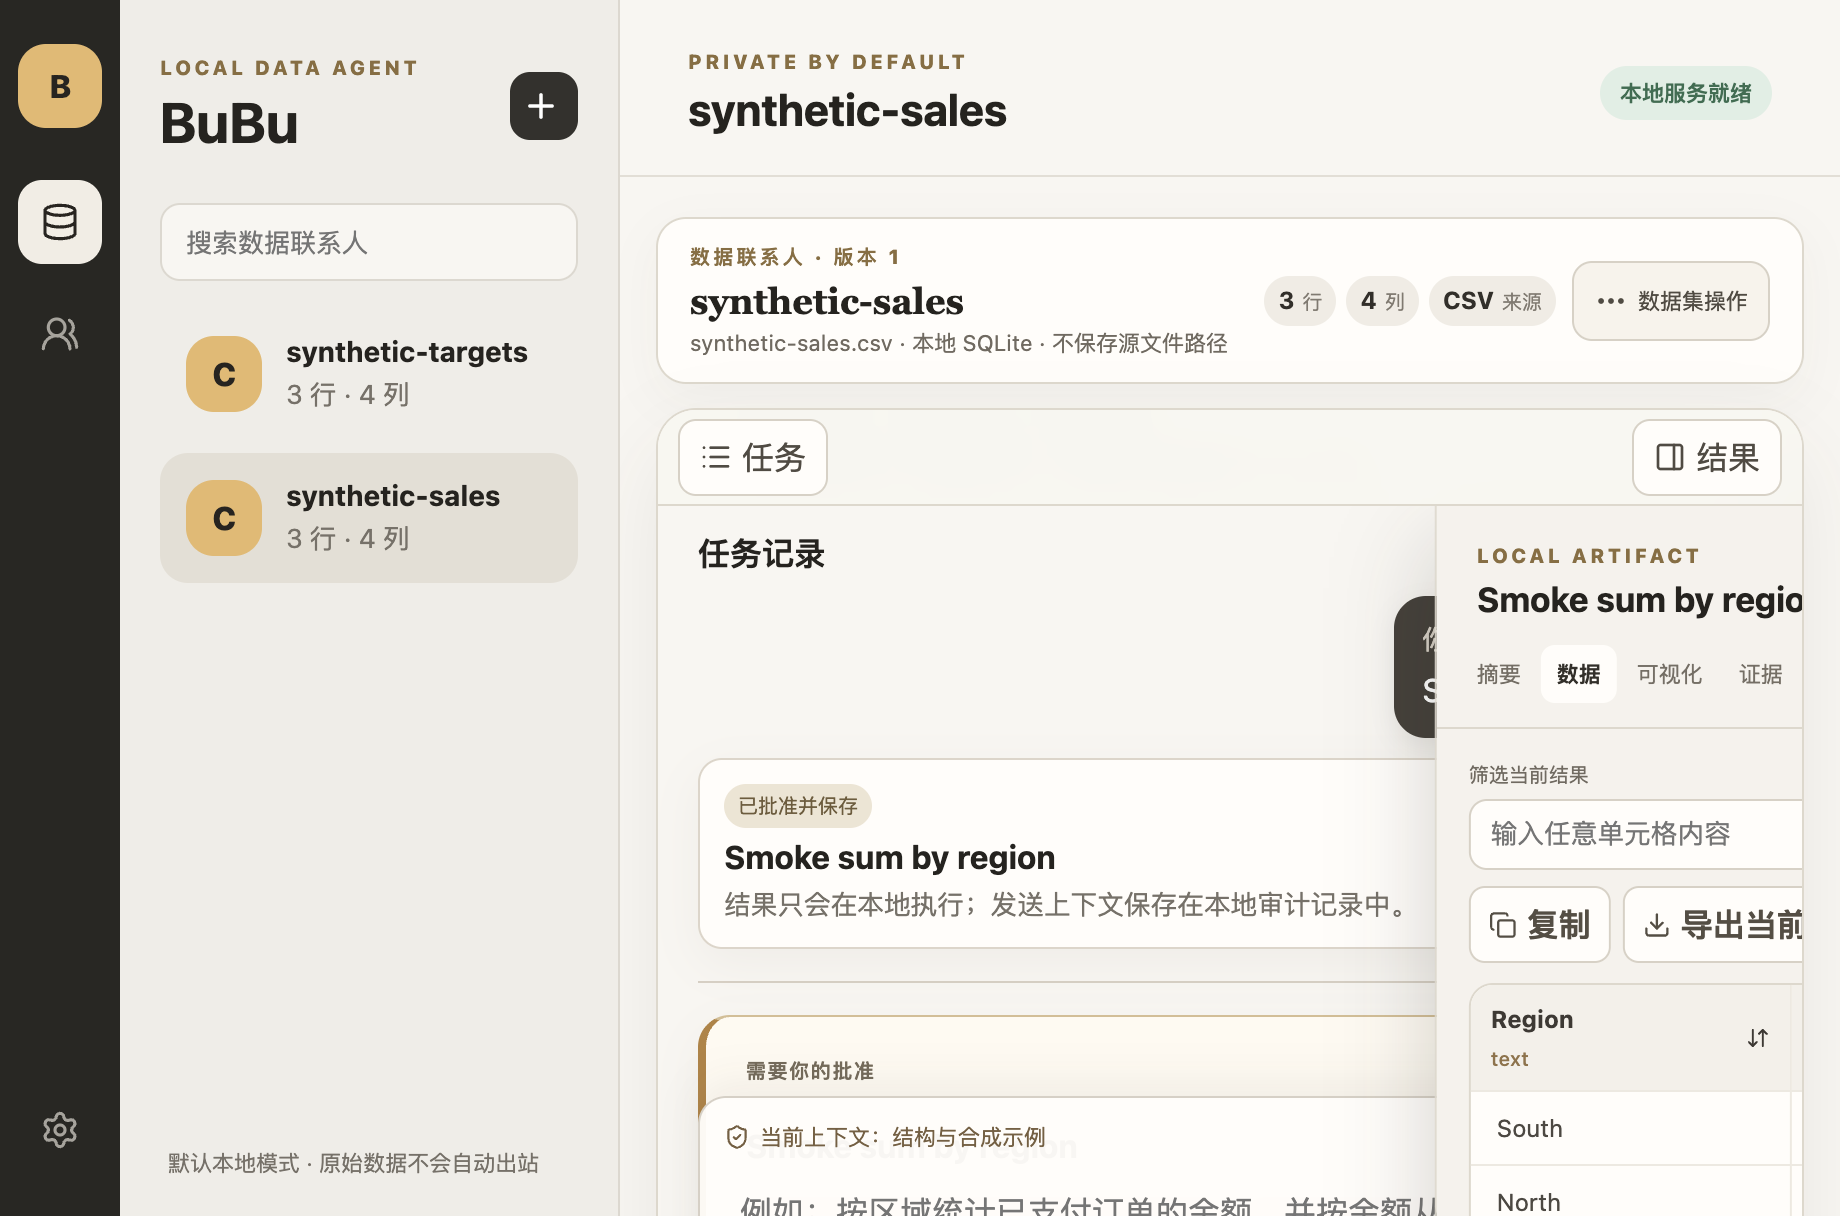
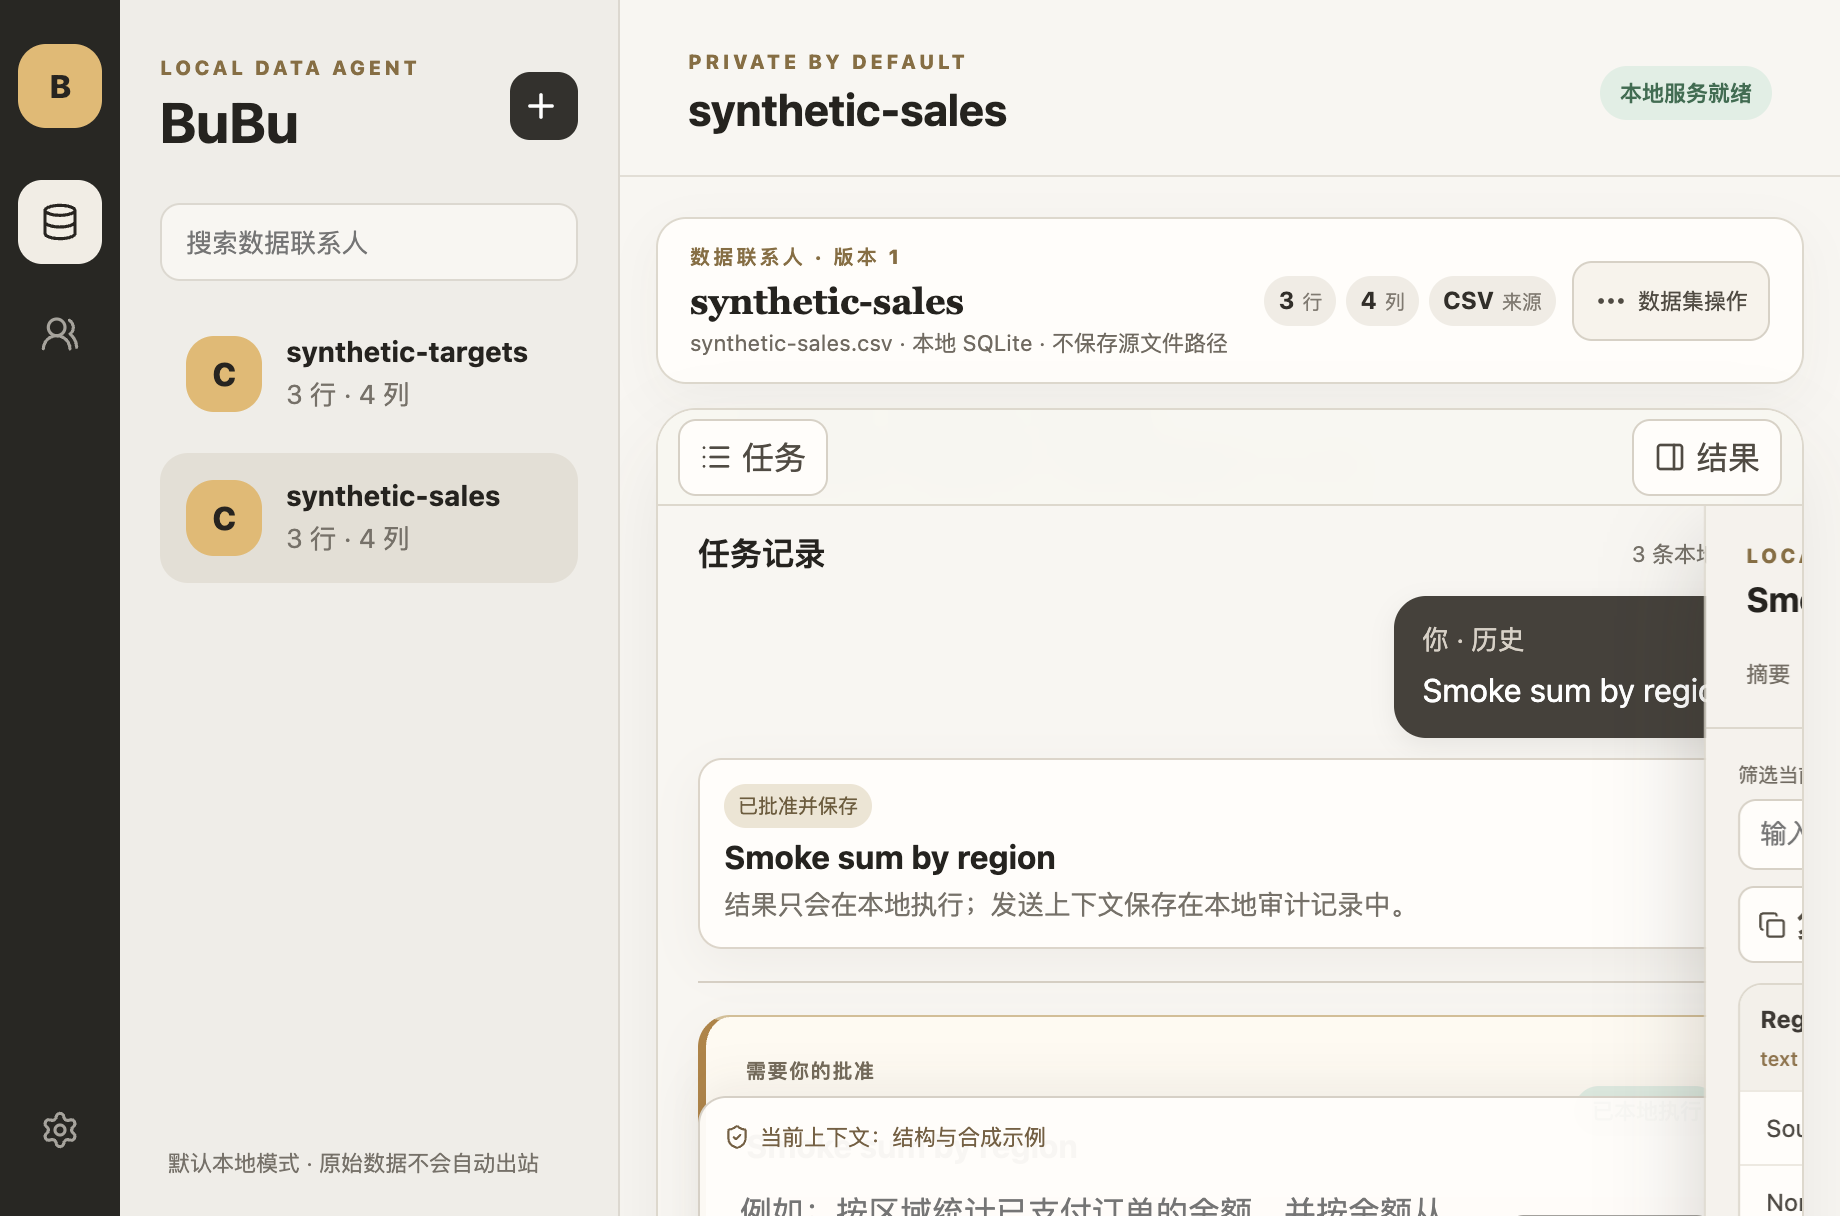
add deterministic visualization reports

diff --git a/packages/contracts/src/visualization.ts b/packages/contracts/src/visualization.ts
@@ -16,6 +16,9 @@ export const visualizationSpecSchema = z.object({
 }).strict();
 
 export type VisualizationSpec = z.infer<typeof visualizationSpecSchema>;
+export type VisualizationRecommendation =
+  | { readonly kind: "chart"; readonly reason: string; readonly spec: VisualizationSpec }
+  | { readonly kind: "table"; readonly reason: string };
 
 interface ResultColumnLike {
   readonly label: string;
@@ -31,18 +34,19 @@ function isNumeric(type: ResultColumnLike["type"]): boolean {
   return type === "integer" || type === "real";
 }
 
-export function deriveVisualizationSpec(result: ResultLike, title: string): VisualizationSpec | undefined {
-  if (result.rows.length === 0 || result.columns.length < 2) return undefined;
+export function recommendVisualization(result: ResultLike, title: string): VisualizationRecommendation {
+  if (result.rows.length === 0) return { kind: "table", reason: "没有结果行，图表不会增加信息。" };
+  if (result.columns.length < 2) return { kind: "table", reason: "至少需要一个分类列和一个数值列才能形成可解释图表。" };
   let valueIndex = -1;
   for (const [index, column] of result.columns.entries()) {
     if (isNumeric(column.type)) valueIndex = index;
   }
-  if (valueIndex < 0) return undefined;
+  if (valueIndex < 0) return { kind: "table", reason: "结果中没有可安全绘制的数值列。" };
   let categoryIndex = result.columns.findIndex(({ type }, index) => index !== valueIndex && !isNumeric(type));
   if (categoryIndex < 0) categoryIndex = result.columns.findIndex((_column, index) => index !== valueIndex);
   const category = result.columns[categoryIndex];
   const value = result.columns[valueIndex];
-  if (!category || !value) return undefined;
+  if (!category || !value) return { kind: "table", reason: "没有找到与数值列配对的分类列。" };
 
   const points = result.rows
     .map((row) => {
@@ -53,16 +57,26 @@ export function deriveVisualizationSpec(result: ResultLike, title: string): Visu
       return { label: rawLabel === null ? "空值" : String(rawLabel), value: number };
     })
     .filter((point): point is { readonly label: string; readonly value: number } => point !== undefined);
-  const visiblePoints = points.slice(0, 20);
-  if (visiblePoints.length === 0) return undefined;
-  return visualizationSpecSchema.parse({
-    kind: category.type === "datetime" ? "line" : "bar",
+  if (points.length === 0) return { kind: "table", reason: "数值列没有可绘制的有限值。" };
+  const labels = new Set(points.map(({ label }) => label));
+  if (labels.size !== points.length) return { kind: "table", reason: "分类值存在重复，直接画图会暗示未经计划批准的聚合。" };
+  if (points.length > 20) return { kind: "table", reason: `共有 ${points.length} 个分类，表格比截断图表更完整。` };
+  const chronological = category.type === "datetime" && points.every(({ label }) => Number.isFinite(Date.parse(label)));
+  const visiblePoints = chronological ? points.toSorted((left, right) => Date.parse(left.label) - Date.parse(right.label)) : points;
+  const spec = visualizationSpecSchema.parse({
+    kind: chronological ? "line" : "bar",
     title: title.trim().slice(0, 500) || "查询结果",
     categoryLabel: category.label,
     valueLabel: value.label,
     points: visiblePoints,
-    omittedPointCount: Math.max(0, points.length - visiblePoints.length),
+    omittedPointCount: 0,
   });
+  return { kind: "chart", reason: chronological ? "时间分类完整可解析，使用按时间排序的趋势图。" : "唯一分类与有限数值一一对应，使用柱状图便于比较。", spec };
+}
+
+export function deriveVisualizationSpec(result: ResultLike, title: string): VisualizationSpec | undefined {
+  const recommendation = recommendVisualization(result, title);
+  return recommendation.kind === "chart" ? recommendation.spec : undefined;
 }
 
 export function parseVisualizationSpec(value: unknown): VisualizationSpec {

diff --git a/apps/desktop/src/main/artifact-api.ts b/apps/desktop/src/main/artifact-api.ts
@@ -30,6 +30,16 @@ export function artifactFileName(title: string): string {
   return `${safe || "bubu-result"}.csv`;
 }
 
+function html(value: unknown): string {
+  return String(value ?? "").replaceAll("&", "&amp;").replaceAll("<", "&lt;").replaceAll(">", "&gt;").replaceAll('"', "&quot;").replaceAll("'", "&#39;");
+}
+
+export function artifactHtmlReport(input: ArtifactTableActionInput): string {
+  const head = input.columns.map((column) => `<th scope="col">${html(column)}</th>`).join("");
+  const body = input.rows.map((row) => `<tr>${row.map((cell) => `<td>${html(cell)}</td>`).join("")}</tr>`).join("");
+  return `<!doctype html><html lang="zh-CN"><head><meta charset="utf-8"><meta name="viewport" content="width=device-width"><meta name="color-scheme" content="light"><title>${html(input.title)}</title><style>body{max-width:1100px;margin:40px auto;padding:0 24px;font:15px/1.6 system-ui;color:#292621;background:#faf8f3}header{margin-bottom:24px}h1{margin:0 0 6px}p{color:#6f685e}.table{overflow:auto;border:1px solid #d8d1c5;border-radius:12px;background:#fff}table{width:100%;border-collapse:collapse}th,td{padding:9px 11px;border-bottom:1px solid #e7e1d8;text-align:left;white-space:nowrap}th{background:#f2eee6}footer{margin-top:18px;font-size:12px;color:#777}</style></head><body><header><h1>${html(input.title)}</h1><p>BuBu 本地轻报告 · ${input.rows.length} 行 · ${input.columns.length} 列</p></header><main class="table"><table><thead><tr>${head}</tr></thead><tbody>${body}</tbody></table></main><footer>此文件由本地 Artifact 当前结果生成，不包含模型凭据、文件路径或未显示的数据行。</footer></body></html>`;
+}
+
 export function registerArtifactApi({ assertTrustedSender }: { readonly assertTrustedSender: (frameUrl: string) => void }): void {
   ipcMain.handle(desktopChannels.copyArtifactTable, (event, value: unknown) => {
     assertTrustedSender(event.senderFrame?.url ?? "");
@@ -43,6 +53,14 @@ export function registerArtifactApi({ assertTrustedSender }: { readonly assertTr
     const selection = await dialog.showSaveDialog({ title: "导出当前结果视图", defaultPath: artifactFileName(input.title), filters: [{ name: "CSV", extensions: ["csv"] }] });
     if (selection.canceled || !selection.filePath) return { status: "cancelled" } as const;
     await writeFile(selection.filePath, `\uFEFF${artifactCsv(input)}`, { encoding: "utf8", mode: 0o600 });
+    return { status: "exported", rowCount: input.rows.length } as const;
+  });
+  ipcMain.handle(desktopChannels.exportArtifactReport, async (event, value: unknown) => {
+    assertTrustedSender(event.senderFrame?.url ?? "");
+    const input = parseArtifactTableActionInput(value);
+    const selection = await dialog.showSaveDialog({ title: "导出本地轻报告", defaultPath: artifactFileName(input.title).replace(/\.csv$/u, ".html"), filters: [{ name: "HTML 报告", extensions: ["html"] }] });
+    if (selection.canceled || !selection.filePath) return { status: "cancelled" } as const;
+    await writeFile(selection.filePath, artifactHtmlReport(input), { encoding: "utf8", mode: 0o600 });
     return { status: "exported", rowCount: input.rows.length } as const;
   });
 }

diff --git a/packages/contracts/src/visualization-recommendation.test.ts b/packages/contracts/src/visualization-recommendation.test.ts
@@ -1,0 +1,16 @@
+import { describe, expect, it } from "vitest";
+import { recommendVisualization } from "./visualization.js";
+
+describe("recommendVisualization", () => {
+  it("uses a chronologically sorted line only for parseable time categories", () => {
+    const result = recommendVisualization({ columns: [{ label: "day", type: "datetime" }, { label: "sales", type: "real" }], rows: [["2026-02-01", 2], ["2026-01-01", 1]] }, "趋势");
+    expect(result.kind).toBe("chart");
+    if (result.kind === "chart") expect(result.spec).toMatchObject({ kind: "line", points: [{ label: "2026-01-01" }, { label: "2026-02-01" }] });
+  });
+
+  it("refuses charts that would hide cardinality or imply new aggregation", () => {
+    const columns = [{ label: "category", type: "text" }, { label: "value", type: "integer" }] as const;
+    expect(recommendVisualization({ columns, rows: [["A", 1], ["A", 2]] }, "重复")).toMatchObject({ kind: "table", reason: expect.stringContaining("未经计划批准") });
+    expect(recommendVisualization({ columns, rows: Array.from({ length: 21 }, (_, index) => [`C${index}`, index]) }, "过多")).toMatchObject({ kind: "table", reason: expect.stringContaining("21 个分类") });
+  });
+});

diff --git a/apps/desktop/src/renderer/ArtifactInspector.tsx b/apps/desktop/src/renderer/ArtifactInspector.tsx
@@ -1,4 +1,4 @@
-import { ArrowDownUp, Bot, Copy, Download, Maximize2, Minimize2, Pin, PinOff, X } from "lucide-react";
+import { ArrowDownUp, Bot, Copy, Download, FileText, Maximize2, Minimize2, Pin, PinOff, X } from "lucide-react";
 import { useEffect, useMemo, useState, type ReactNode } from "react";
 import type { ConversationEntry, ConversationThread, SafeGroupQueryResult, SafeQueryResult } from "../shared/product-api.js";
 import { ResultVisualization } from "./ResultVisualization.js";
@@ -77,6 +77,7 @@ export function ArtifactInspector({ target, threadId, fallback }: { readonly tar
   const [expanded, setExpanded] = useState(false);
   const [automationOpen, setAutomationOpen] = useState(false);
   const [pinned, setPinned] = useState(() => threadId ? readPinnedArtifacts().has(threadId) : false);
+  const [reportNotice, setReportNotice] = useState<string>();
   const thread = useConversationThread(target, threadId);
   const artifacts = useMemo(() => latestArtifacts(thread), [thread]);
   const result = artifacts.result;
@@ -87,6 +88,7 @@ export function ArtifactInspector({ target, threadId, fallback }: { readonly tar
     setAutomationOpen(false);
     setExpanded(false);
     setPinned(threadId ? readPinnedArtifacts().has(threadId) : false);
+    setReportNotice(undefined);
   }, [threadId]);
 
   if (!threadId || !thread || (!result && !plan)) return <>{fallback}</>;
@@ -96,6 +98,15 @@ export function ArtifactInspector({ target, threadId, fallback }: { readonly tar
     localStorage.setItem(pinnedArtifactKey, JSON.stringify([...values]));
     setPinned(values.has(threadId));
   };
+  const exportReport = async () => {
+    if (!result) return;
+    try {
+      const outcome = await window.bubu.artifacts.exportReport({ title: plan?.plan.purpose ?? thread.title, columns: result.columns.map(({ label }) => label), rows: result.rows });
+      setReportNotice(outcome.status === "exported" ? `已导出包含 ${outcome.rowCount} 行的本地轻报告` : "已取消报告导出");
+    } catch (error) {
+      setReportNotice(error instanceof Error ? error.message : "报告导出失败，请重试");
+    }
+  };
   const draft = plan ? ("datasetId" in plan.plan ? { kind: "dataset-query" as const, plan: plan.plan } : { kind: "group-query" as const, groupPlan: plan.plan }) : undefined;
   return <div className={`artifact-shell ${expanded ? "artifact-shell-expanded" : ""}`}>
     <header className="artifact-header"><div><p className="hero-kicker">LOCAL ARTIFACT</p><h3>{plan?.plan.purpose ?? thread.title}</h3></div><div className="artifact-header-actions"><span>仅本地</span><button type="button" onClick={() => setExpanded((value) => !value)} aria-label={expanded ? "收起结果工作区" : "展开结果工作区"}>{expanded ? <Minimize2 size={15} /> : <Maximize2 size={15} />}</button></div></header>
@@ -104,7 +115,7 @@ export function ArtifactInspector({ target, threadId, fallback }: { readonly tar
         {(Object.keys(labels) as InspectorTab[]).map((item) => <button type="button" role="tab" key={item} className={tab === item ? "artifact-tab-active" : ""} aria-selected={tab === item} tabIndex={tab === item ? 0 : -1} onClick={() => setTab(item)} onKeyDown={(event) => { if (event.key !== "ArrowLeft" && event.key !== "ArrowRight") return; const tabs = Array.from(event.currentTarget.parentElement?.querySelectorAll<HTMLButtonElement>('[role="tab"]') ?? []); const index = tabs.indexOf(event.currentTarget); const next = tabs[(index + (event.key === "ArrowRight" ? 1 : -1) + tabs.length) % tabs.length]; next?.focus(); next?.click(); }}>{labels[item]}</button>)}
       </nav>
       <div className="artifact-body" role="tabpanel">
-        {tab === "summary" && <section className="artifact-summary"><div className="artifact-metrics"><span><strong>{result?.rows.length ?? 0}</strong>结果行</span><span><strong>{result?.columns.length ?? 0}</strong>结果列</span><span><strong>{thread.entries.length}</strong>证据事件</span></div><p>{result ? "经过审查的计划已由本地 Go 数据内核执行，原始行没有自动发送给模型。" : "计划已保存，等待你在对话中批准本地执行。"}</p>{result?.truncated && <small>结果已按照计划上限截断。</small>}<button type="button" className="secondary-action artifact-automation-action" onClick={() => { setAutomationOpen(true); setExpanded(true); }}><Bot size={15} />把已审查计划变成自动化</button></section>}
+        {tab === "summary" && <section className="artifact-summary"><div className="artifact-metrics"><span><strong>{result?.rows.length ?? 0}</strong>结果行</span><span><strong>{result?.columns.length ?? 0}</strong>结果列</span><span><strong>{thread.entries.length}</strong>证据事件</span></div><p>{result ? "经过审查的计划已由本地 Go 数据内核执行，原始行没有自动发送给模型。" : "计划已保存，等待你在对话中批准本地执行。"}</p>{result?.truncated && <small>结果已按照计划上限截断。</small>}<div className="artifact-summary-actions"><button type="button" className="secondary-action" disabled={!result} onClick={() => void exportReport()}><FileText size={15} />导出轻报告</button><button type="button" className="secondary-action artifact-automation-action" onClick={() => { setAutomationOpen(true); setExpanded(true); }}><Bot size={15} />把已审查计划变成自动化</button></div>{reportNotice && <p className="artifact-action-notice" role="status">{reportNotice}</p>}</section>}
         {tab === "data" && (result ? <ResultTable result={result} title={plan?.plan.purpose ?? thread.title} pinned={pinned} onTogglePinned={togglePinned} /> : <p className="empty-copy">批准执行后，受限结果会出现在这里。</p>)}
         {tab === "visual" && (result ? <ResultVisualization result={result} title={plan?.plan.purpose ?? thread.title} /> : <p className="empty-copy">查询结果生成后才会提供确定性图表。</p>)}
         {tab === "evidence" && <section className="artifact-evidence">{plan && <div className="artifact-plan"><strong>{plan.plan.purpose}</strong><dl><div><dt>维度</dt><dd>{plan.plan.dimensions.length || "无"}</dd></div><div><dt>计算</dt><dd>{plan.plan.measures.length || "明细"}</dd></div><div><dt>最多返回</dt><dd>{plan.plan.limit} 行</dd></div></dl></div>}<ol>{thread.entries.map((entry) => <li key={entry.id}><span>{eventLabel(entry)}</span><strong>{new Date(entry.createdAt).toLocaleString("zh-CN")}</strong><small>第 {entry.ordinal} 条追加记录</small></li>)}</ol></section>}

diff --git a/packages/contracts/src/visualization.test.ts b/packages/contracts/src/visualization.test.ts
@@ -1,5 +1,5 @@
 import { describe, expect, it } from "vitest";
-import { deriveVisualizationSpec, parseVisualizationSpec } from "./visualization.js";
+import { deriveVisualizationSpec, parseVisualizationSpec, recommendVisualization } from "./visualization.js";
 
 describe("local result visualization", () => {
   it("derives a bounded bar chart from a categorical aggregate", () => {
@@ -17,18 +17,16 @@ describe("local result visualization", () => {
     });
   });
 
-  it("derives a line chart for time and omits invalid/overflow points", () => {
+  it("keeps high-cardinality time results as a complete table", () => {
     const rows = Array.from({ length: 22 }, (_, index) => [
       `2026-07-${String(index + 1).padStart(2, "0")}`,
       index === 3 ? "not-a-number" : index,
     ] as const);
-    const spec = deriveVisualizationSpec({
+    const recommendation = recommendVisualization({
       columns: [{ label: "Date", type: "datetime" }, { label: "Value", type: "real" }],
       rows,
     }, "趋势");
-    expect(spec?.kind).toBe("line");
-    expect(spec?.points).toHaveLength(20);
-    expect(spec?.omittedPointCount).toBe(1);
+    expect(recommendation).toMatchObject({ kind: "table", reason: expect.stringContaining("21 个分类") });
   });
 
   it("does not invent a chart without a numeric series and rejects extra fields", () => {

diff --git a/apps/desktop/src/main/artifact-api.test.ts b/apps/desktop/src/main/artifact-api.test.ts
@@ -1,6 +1,6 @@
 import { describe, expect, it } from "vitest";
 import type { ArtifactTableActionInput } from "@bubu/contracts";
-import { artifactCsv, artifactFileName, artifactTsv } from "./artifact-api.js";
+import { artifactCsv, artifactFileName, artifactHtmlReport, artifactTsv } from "./artifact-api.js";
 
 const input: ArtifactTableActionInput = { title: "Q3: Sales / APAC. ", columns: ["Region", "Amount"], rows: [["North", 12], ["=cmd", "a,b"], ["line\nbreak", null]] };
 
@@ -13,5 +13,12 @@ describe("artifact table serialization", () => {
     expect(artifactTsv(input)).toContain("' =cmd".replace(" ", ""));
     expect(artifactTsv(input)).toContain("line break");
     expect(artifactFileName(input.title)).toBe("Q3- Sales - APAC.csv");
+  });
+
+  it("creates a standalone local report and escapes untrusted cell content", () => {
+    const report = artifactHtmlReport({ ...input, rows: [["<script>alert(1)</script>", 2]] });
+    expect(report).toContain("BuBu 本地轻报告");
+    expect(report).toContain("&lt;script&gt;alert(1)&lt;/script&gt;");
+    expect(report).not.toContain("<script>alert(1)</script>");
   });
 });

diff --git a/apps/desktop/src/renderer/ResultVisualization.tsx b/apps/desktop/src/renderer/ResultVisualization.tsx
@@ -1,6 +1,6 @@
 import { useMemo } from "react";
 import {
-  deriveVisualizationSpec,
+  recommendVisualization,
   type VisualizationSpec,
 } from "@bubu/contracts";
 
@@ -33,8 +33,9 @@ function shortLabel(value: string): string {
 }
 
 export function ResultVisualization({ result, title }: ResultVisualizationProps) {
-  const spec = useMemo(() => deriveVisualizationSpec(result, title), [result, title]);
-  if (!spec) return null;
+  const recommendation = useMemo(() => recommendVisualization(result, title), [result, title]);
+  if (recommendation.kind === "table") return <section className="visualization-guidance"><strong>建议保留表格</strong><p>{recommendation.reason}</p></section>;
+  const spec = recommendation.spec;
   const chart = coordinates(spec);
   const barWidth = Math.max(6, Math.min(42, (chart.plotWidth / spec.points.length) * 0.66));
   const linePoints = spec.points.map(({ value }, index) => `${chart.x(index)},${chart.y(value)}`).join(" ");
@@ -60,6 +61,8 @@ export function ResultVisualization({ result, title }: ResultVisualizationProps)
         <text x={plot.left} y={14} className="chart-value-label">{chart.maximum.toLocaleString("zh-CN")}</text>
         <text x={plot.left} y={height - plot.bottom + 16} className="chart-value-label">{chart.minimum.toLocaleString("zh-CN")}</text>
       </svg>
+      <p className="visualization-reason">{recommendation.reason}</p>
+      <details className="chart-data-alternative"><summary>查看图表数据表</summary><div className="table-scroll"><table><thead><tr><th scope="col">{spec.categoryLabel}</th><th scope="col">{spec.valueLabel}</th></tr></thead><tbody>{spec.points.map((point, index) => <tr key={`${point.label}-${index}`}><td>{point.label}</td><td>{point.value}</td></tr>)}</tbody></table></div></details>
       {spec.omittedPointCount > 0 && <small>为保证可读性，图中省略了其余 {spec.omittedPointCount} 个点；表格仍保留完整的本地结果。</small>}
     </figure>
   );

diff --git a/apps/desktop/src/renderer/styles.css b/apps/desktop/src/renderer/styles.css
@@ -246,6 +246,8 @@ td { max-width: 280px; overflow: hidden; text-overflow: ellipsis; color: #4d4841
 .artifact-summary, .artifact-plan, .artifact-audit { display: grid; gap: 10px; padding: 15px; border: 1px solid #e0d9cd; border-radius: 13px; background: #fffdf9; }
 .artifact-summary strong, .artifact-plan strong, .artifact-audit strong { font-size: 14px; }
 .artifact-summary p, .artifact-plan p, .artifact-audit p { margin: 0; font-size: 12px; line-height: 1.65; color: #716a60; }
+.artifact-summary-actions { display: flex; flex-wrap: wrap; gap: 7px; }
+.artifact-summary-actions .secondary-action { display: inline-flex; align-items: center; gap: 5px; margin: 0; }
 .artifact-plan dl { display: grid; grid-template-columns: repeat(3, 1fr); gap: 5px; margin: 0; }
 .artifact-plan dl > div { padding: 8px; border-radius: 8px; background: #f3f0e9; }
 .artifact-plan dt { font-size: 10px; color: #817a70; }.artifact-plan dd { margin: 3px 0 0; font-size: 12px; font-weight: 700; }
@@ -521,6 +523,11 @@ td { max-width: 280px; overflow: hidden; text-overflow: ellipsis; color: #4d4841
 .result-visualization h4 { margin: 0; }
 .result-visualization figcaption > span, .result-visualization > small { font-size: 11px; color: #777168; }
 .result-visualization svg { display: block; width: 100%; max-height: 320px; margin-top: 10px; overflow: visible; }
+.visualization-reason, .visualization-guidance p { margin: 8px 0 0; font-size: 11px; line-height: 1.55; color: #716a60; }
+.visualization-guidance { padding: 14px; border: 1px solid #ddd6ca; border-radius: 12px; background: #fffdf9; }
+.chart-data-alternative { margin-top: 10px; padding-top: 9px; border-top: 1px solid #e2dcd2; }
+.chart-data-alternative summary { font-size: 11px; font-weight: 700; cursor: pointer; }
+.chart-data-alternative .table-scroll { max-height: 220px; margin-top: 8px; }
 .chart-axis { stroke: #bdb4a7; stroke-width: 1; }
 .chart-bar { fill: #ba8848; }
 .chart-line { fill: none; stroke: #9b6c35; stroke-width: 3; stroke-linecap: round; stroke-linejoin: round; }

diff --git a/apps/desktop/src/main.ts b/apps/desktop/src/main.ts
@@ -204,6 +204,7 @@ async function verifySmokeRenderer(
       resultButton.click();
       await new Promise((next) => requestAnimationFrame(() => requestAnimationFrame(next)));
       const resultOpened = workbench.classList.contains("compact-artifacts-open") && resultButton.getAttribute("aria-pressed") === "true";
+      const reportAvailable = Array.from(document.querySelectorAll(".artifact-summary-actions button")).some((button) => button.textContent?.includes("导出轻报告"));
       const dataTab = Array.from(document.querySelectorAll('[role="tab"]')).find((button) => button.textContent?.includes("数据"));
       if (dataTab instanceof HTMLButtonElement) dataTab.click();
       await new Promise((next) => requestAnimationFrame(() => requestAnimationFrame(next)));
@@ -218,9 +219,10 @@ async function verifySmokeRenderer(
       resultButton.click();
       await new Promise((next) => requestAnimationFrame(() => requestAnimationFrame(next)));
       const closed = !workbench.classList.contains("compact-threads-open") && !workbench.classList.contains("compact-artifacts-open");
-      resolve({ ok: taskOpened && resultOpened && copyAvailable && exportAvailable && pinToggled && closed, missing: [
+      resolve({ ok: taskOpened && resultOpened && reportAvailable && copyAvailable && exportAvailable && pinToggled && closed, missing: [
         ...(!taskOpened ? ["任务抽屉状态"] : []),
         ...(!resultOpened ? ["结果抽屉状态"] : []),
+        ...(!reportAvailable ? ["轻报告导出"] : []),
         ...(!copyAvailable ? ["复制当前结果"] : []),
         ...(!exportAvailable ? ["导出当前结果"] : []),
         ...(!pinToggled ? ["固定结果状态"] : []),

diff --git a/apps/desktop/src/shared/product-api.ts b/apps/desktop/src/shared/product-api.ts
@@ -146,6 +146,7 @@ export const desktopChannels = {
   listModelAudits: "bubu:privacy:model-audits-list",
   copyArtifactTable: "bubu:artifacts:copy-table",
   exportArtifactTable: "bubu:artifacts:export-table",
+  exportArtifactReport: "bubu:artifacts:export-report",
 } as const;
 
 export type DesktopServiceName = "ai-runtime" | "data-core";
@@ -215,6 +216,7 @@ export interface BuBuDesktopApi {
   readonly artifacts: {
     copyTable(value: ArtifactTableActionInput): Promise<ArtifactCopyResult>;
     exportTable(value: ArtifactTableActionInput): Promise<ArtifactExportResult>;
+    exportReport(value: ArtifactTableActionInput): Promise<ArtifactExportResult>;
   };
   readonly analysis: {
     propose(value: QueryPlanRequest, operationId: OperationId): Promise<QueryPlanProposal>;

diff --git a/apps/desktop/src/preload.ts b/apps/desktop/src/preload.ts
@@ -168,6 +168,7 @@ const desktopApi: BuBuDesktopApi = {
   artifacts: {
     copyTable: (value: ArtifactTableActionInput) => ipcRenderer.invoke(desktopChannels.copyArtifactTable, value) as Promise<ArtifactCopyResult>,
     exportTable: (value: ArtifactTableActionInput) => ipcRenderer.invoke(desktopChannels.exportArtifactTable, value) as Promise<ArtifactExportResult>,
+    exportReport: (value: ArtifactTableActionInput) => ipcRenderer.invoke(desktopChannels.exportArtifactReport, value) as Promise<ArtifactExportResult>,
   },
   analysis: {
     propose: (value: QueryPlanRequest, operationId: OperationId) =>

diff --git a/docs/product/conversation-workbench.md b/docs/product/conversation-workbench.md
@@ -27,6 +27,8 @@ The center timeline uses one stable message grammar: user prompts are right-alig
 
 Result narration opens the Artifact workspace directly. In the data tab, copy and CSV export operate on the current filtered and sorted view rather than silently exporting the source dataset. The desktop main process parses the bounded table payload, neutralizes spreadsheet formulas, and owns clipboard/save-dialog access. Pinning is a parsed local presentation preference scoped to the task; it does not duplicate rows or alter the append-only evidence trail.
 
+Visualization is a deterministic recommendation, not model decoration. A line chart requires a parseable datetime category and is sorted chronologically; a bar chart requires unique categories paired with finite values. Duplicate categories, more than 20 categories, missing numeric values, or insufficient columns keep the table and explain why. Every chart includes an expandable data table. Artifact can also export a bounded, script-free local HTML report containing the current result table and explicit local provenance.
+
 ## Trust model
 
 The question text is model input and must not contain pasted sensitive rows. Automatically prepared context is limited to the disclosure shown in the review. Remote model planning, deterministic local execution, and optional aggregate explanation are different events with separate authority and audit records.